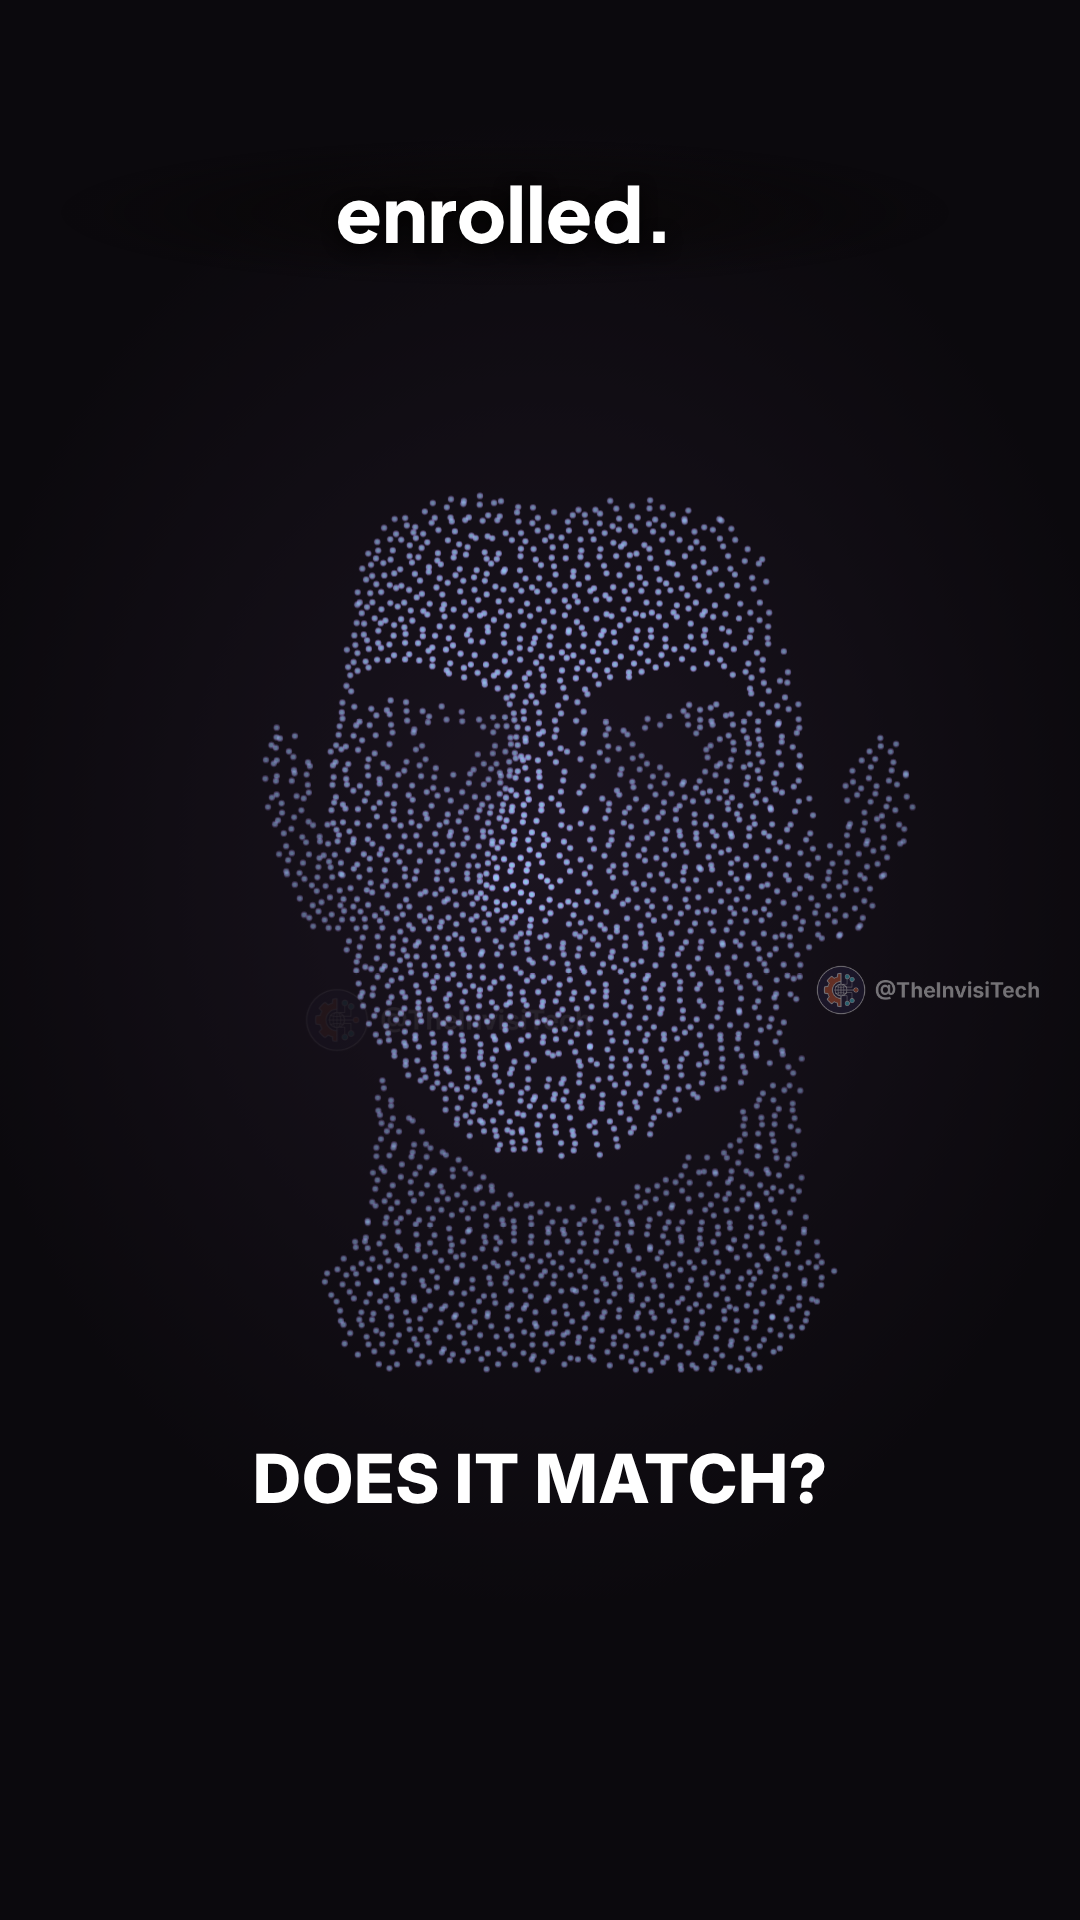
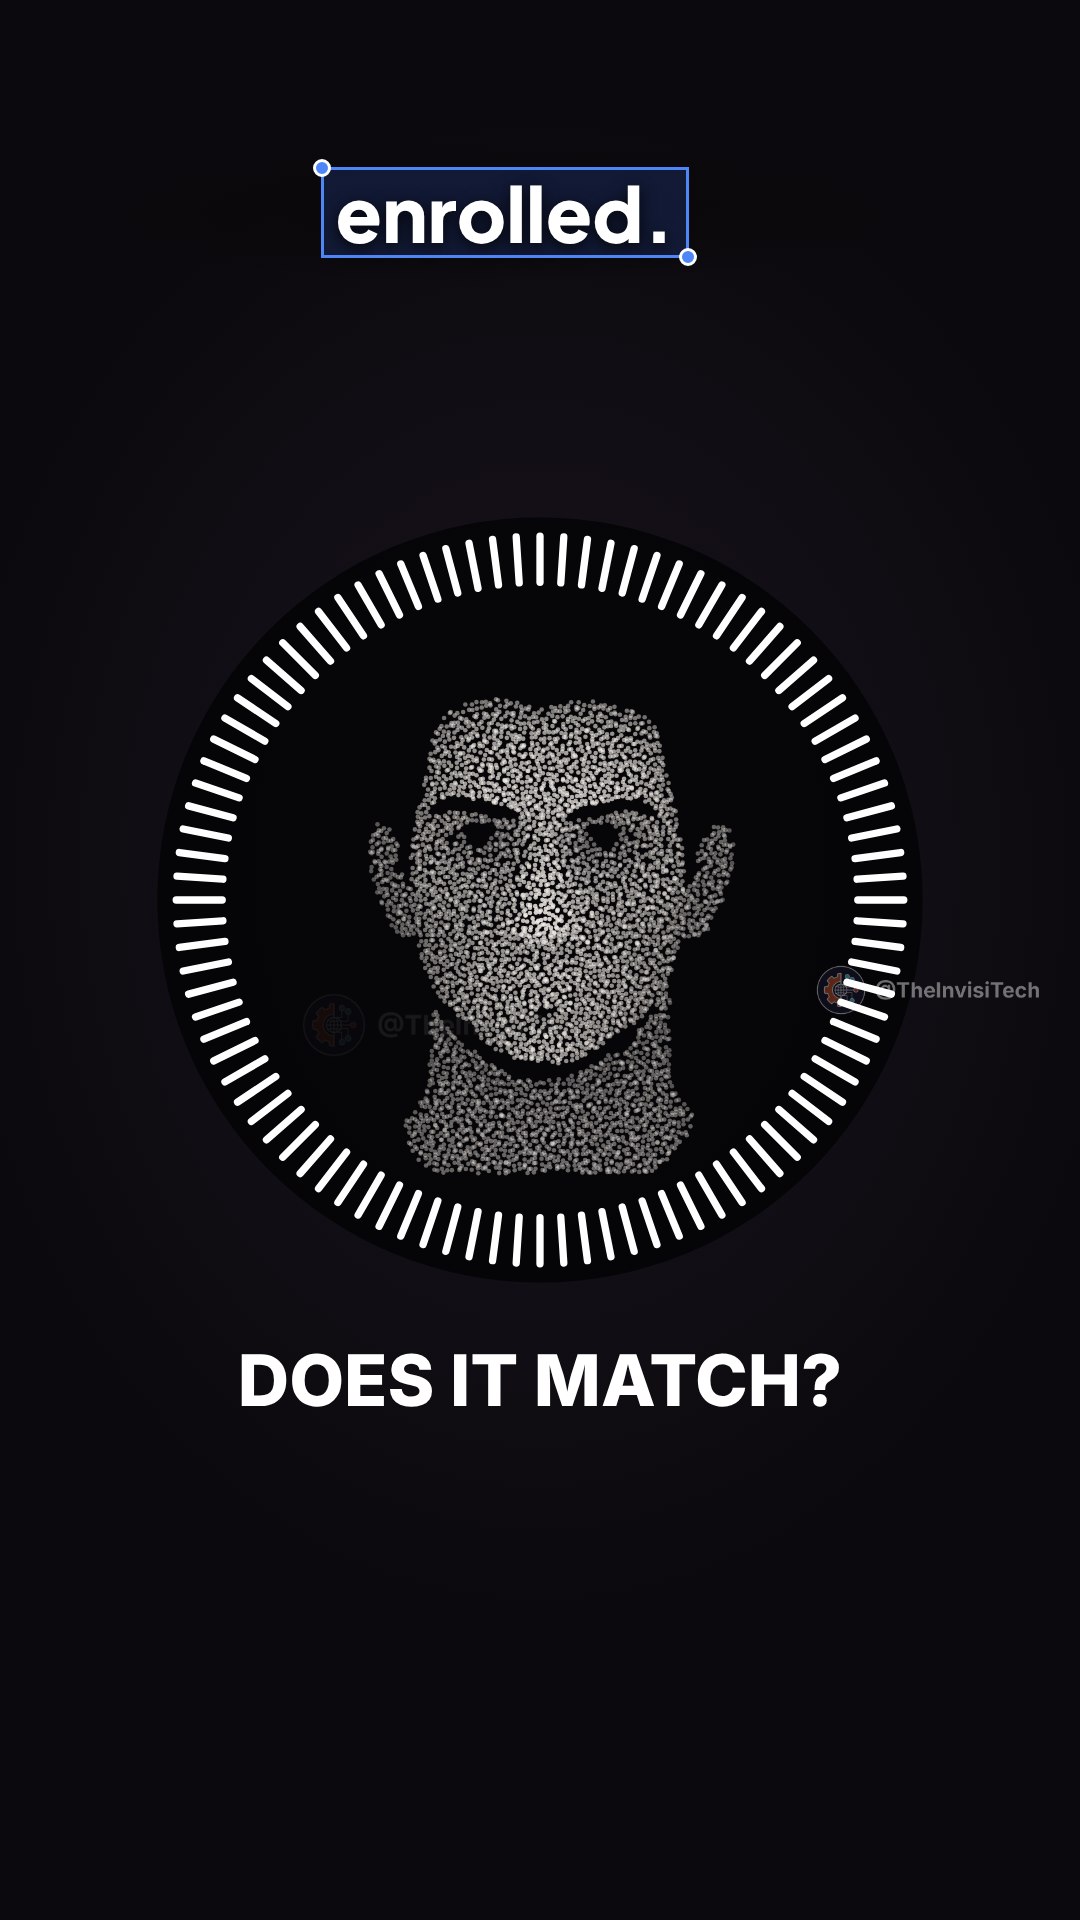
Mirror Short: comparison shot uses the ring 'Comparing…' look with the turning dot face
Claude-Session: https://claude.ai/code/session_01GXcKc5WnFrVWBsHLe8YpAy

Changed region(s): [[0.1528, 0.25, 0.8556, 0.7812], [0.275, 0.0625, 0.6417, 0.1562]]

diff --git a/face-id/mirror-short/src/scenes/Compare.tsx b/face-id/mirror-short/src/scenes/Compare.tsx
@@ -1,20 +1,17 @@
-import { AbsoluteFill, Img, staticFile, useCurrentFrame } from 'remotion';
+import { AbsoluteFill, Img, interpolate, staticFile, useCurrentFrame } from 'remotion';
 import { C, FONT, Label, ramp } from '../theme';
 import { headDots, turnDot } from './dotHead';
 
 // Scene 4 (20.4–28.6 s, 246 frames). Four short shots, cut on the voiceover; no lock screen and no result.
 //   0– 79  the infrared image, full frame                       "It also captures an infrared image."
 //  79–121  depth point cloud + infrared image, side by side     "Your iPhone uses both"
-// 121–210  this scan vs the enrolled face: two 3D point clouds turning together, compared point by point
-//          and as numbers                                        "to check whether the face matches the one you"
-// 210–246  the two clouds slide over each other                 "enrolled."
+// 121–210  Comparing…: his face as a white dot cloud in a ring of ticks, turning left / right / up / down
+//                                                                "to check whether the face matches the one you"
+// 210–246  the ring fills: DOES IT MATCH?                       "enrolled."
 export const CMP = { both: 79, check: 121, merge: 210 };
 const CROP = { x: 106, y: 200, w: 540, h: 720 };                    // face region of the 752 x 1344 stills
 const CYAN = '#7fe3ea', VIO = '#b9a2ff';
-const DOTS = headDots(1, 2);
-const hash = (i: number) => { const x = Math.sin(i * 12.9898) * 43758.5453; return x - Math.floor(x); };
-const LINKS = Array.from({ length: 12 }, (_, k) => Math.floor(hash(k + 3) * DOTS.length));
-const NUMS = Array.from({ length: 7 }, (_, k) => ((hash(k + 40) * 2.6 - 1.3)).toFixed(3));
+const DOTS = headDots(1, 2), RING_DOTS = headDots(0.78);
 
 const Card: React.FC<{ x: number; y: number; w: number; sweep?: number }> = ({ x, y, w, sweep }) => {
   const k = w / CROP.w, h = CROP.h * k;
@@ -61,30 +58,25 @@ export const Compare: React.FC = () => {
       </AbsoluteFill>
     );
   }
-  // this scan vs the enrolled face
-  const t = l - CMP.check, m = ramp(l, CMP.merge, CMP.merge + 14, 0, 1, (x) => x * x * (3 - 2 * x));
-  const LX = 280 + 260 * m, RX = 800 - 260 * m, CY = 800 + 60 * m, K = 0.92 + 0.5 * m;
+  // comparing: his face as a dense white dot cloud inside a ring of ticks. The head turns left, right, up, down
+  // while a white arc circles the ring; on "enrolled" the ring fills and the question lands. No result is shown.
+  const t = l - CMP.check, done = l >= CMP.merge, R = 330, CX = 540, CY = 900, TICKS = 96, spin = (t / 24) % 1;
+  const io = (x: number) => x * x * (3 - 2 * x), key = (v: number[]) => interpolate(t, [0, 16, 36, 48, 60, 74, 86], v, { extrapolateLeft: 'clamp', extrapolateRight: 'clamp', easing: io });
+  const ry = done ? 10 * Math.cos((l - CMP.merge) / 10) : 26 * key([0, -1, 1, 0, 0, 0, 0]), rp = done ? 8 * Math.sin((l - CMP.merge) / 10) : 18 * key([0, 0, 0, 0, -1, 1, 0]);
   return (
     <AbsoluteFill style={{ backgroundColor: C.bg }}>{bg}
       <svg width={1080} height={1920} style={{ position: 'absolute', inset: 0 }}>
-        <Cloud cx={RX} cy={CY} k={K} yaw={yaw} pitch={pitch} color={VIO} r={2 + m} />
-        <Cloud cx={LX} cy={CY} k={K} yaw={yaw} pitch={pitch} color={CYAN} r={2} o={1 - 0.25 * m} />
-        {/* the same point on both faces is checked, one after another */}
-        {m === 0 && LINKS.map((i, k) => { const on = ramp(t, 8 + k * 6, 12 + k * 6); if (on <= 0) return null; const [x, y] = turnDot(DOTS[i], yaw, pitch);
-          return <g key={k} opacity={on * (0.35 + 0.65 * (1 - ramp(t, 20 + k * 6, 40 + k * 6)))}><line x1={LX + x * K} y1={CY + y * K} x2={RX + x * K} y2={CY + y * K} stroke="#fff" strokeWidth={1.6} strokeDasharray="5 6" /><circle cx={LX + x * K} cy={CY + y * K} r={8} fill="none" stroke="#fff" strokeWidth={2.5} /><circle cx={RX + x * K} cy={CY + y * K} r={8} fill="none" stroke="#fff" strokeWidth={2.5} /></g>; })}
+        <g transform={`translate(${CX} ${CY}) scale(${0.9 + 0.1 * ramp(t, 0, 8)})`}>
+          <circle r={R + 36} fill="rgba(4,4,6,.9)" />
+          {Array.from({ length: TICKS }, (_, i) => { const a = (i / TICKS) * 2 * Math.PI - Math.PI / 2, lit = done || ((i / TICKS - spin + 1) % 1) < 0.24;
+            const r0 = R - 26, r1 = R + (lit ? 18 : 12);
+            return <line key={i} x1={r0 * Math.cos(a)} y1={r0 * Math.sin(a)} x2={r1 * Math.cos(a)} y2={r1 * Math.sin(a)} stroke={lit ? '#fff' : '#77726e'} strokeWidth={lit ? 7 : 6} strokeLinecap="round" opacity={lit ? 1 : 0.55} />; })}
+          {RING_DOTS.map((d, i) => { const [x, y] = turnDot(d, ry, rp); return <circle key={i} cx={x} cy={y} r={2.2} fill="#f4efe9" opacity={0.25 + 0.75 * d[3]} />; })}
+        </g>
       </svg>
-      <Label text="THIS SCAN" x={280} y={480} o={1 - m} size={30} align="center" color={CYAN} />
-      <Label text="ENROLLED FACE" x={800} y={480} o={1 - m} size={30} align="center" color={VIO} />
-      {/* the face as numbers: each row is compared in turn */}
-      {[280, 800].map((x, c) => (
-        <div key={c} style={{ position: 'absolute', left: x - 110, top: 1150, width: 220, opacity: ramp(t, 14, 20) * (1 - m), font: `700 34px/1.5 ${FONT}`, fontVariantNumeric: 'tabular-nums', textAlign: 'center' }}>
-          {NUMS.map((n, k) => { const on = ramp(t, 22 + k * 8, 26 + k * 8); return <div key={k} style={{ color: on > 0.5 ? '#fff' : c ? VIO : CYAN, opacity: 0.45 + 0.55 * on }}>{n}</div>; })}
-        </div>
-      ))}
-      <div style={{ position: 'absolute', left: 440, top: 1150, width: 200, opacity: ramp(t, 14, 20) * (1 - m), font: `800 34px/1.5 ${FONT}`, textAlign: 'center', color: '#fff' }}>
-        {NUMS.map((_, k) => <div key={k} style={{ opacity: ramp(t, 22 + k * 8, 26 + k * 8) }}>↔</div>)}
-      </div>
-      <div style={{ position: 'absolute', left: 0, right: 0, top: 1420, textAlign: 'center', opacity: ramp(l, CMP.merge + 8, CMP.merge + 14), font: `800 64px/1 ${FONT}`, color: '#fff', transform: `scale(${1 + 0.04 * Math.sin(l / 4)})` }}>DOES IT MATCH?</div>
+      <div style={{ position: 'absolute', left: 0, right: 0, top: 1320, textAlign: 'center', opacity: done ? 0 : ramp(t, 4, 8), font: `800 62px/1 ${FONT}`, color: '#fff' }}>Comparing…</div>
+      <div style={{ position: 'absolute', left: 0, right: 0, top: 1400, textAlign: 'center', opacity: done ? 0 : ramp(t, 8, 12), font: `600 32px/1 ${FONT}`, color: '#bdb5ad' }}>this scan vs the enrolled face</div>
+      <div style={{ position: 'absolute', left: 0, right: 0, top: 1325, textAlign: 'center', opacity: ramp(l, CMP.merge, CMP.merge + 4), font: `800 70px/1 ${FONT}`, color: '#fff', transform: `scale(${1 + 0.04 * Math.sin(l / 4)})` }}>DOES IT MATCH?</div>
     </AbsoluteFill>
   );
 };
